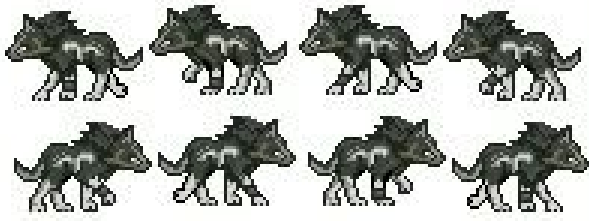
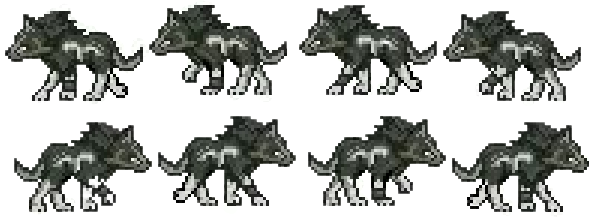
ADD move wolf without collision

diff --git a/tests/ennemy/test_ennemy_main.c b/tests/ennemy/test_ennemy_main.c
@@ -11,29 +11,36 @@
 
 void init_sprite(game_t *game)
 {
-    game->sprite = malloc(sizeof(sprite_data_t));
-    game->sprite->texture =
+    game->ennemy = malloc(sizeof(ennemy_t));
+    game->ennemy->sprite = malloc(sizeof(ennemy_sprite_t));
+    game->ennemy->sprite->max_left = 580;
+    game->ennemy->sprite->clock = sfClock_create();
+    game->ennemy->sprite->sprite_data = malloc(sizeof(sprite_data_t));
+    game->ennemy->sprite->sprite_data->texture =
     sfTexture_createFromFile("assets/ennemy/wolf.png", NULL);
-    game->sprite->sprite = sfSprite_create();
-    game->sprite->pos = (sfVector2f){250, 250};
-    game->sprite->scale = (sfVector2f){1.5, 1.5};
-    game->sprite->rect = (sfIntRect){0, 0, 145, 120};
+    game->ennemy->sprite->sprite_data->sprite = sfSprite_create();
+    game->ennemy->sprite->sprite_data->pos = (sfVector2f){250, 250};
+    game->ennemy->sprite->sprite_data->scale = (sfVector2f){1.5, 1.5};
+    game->ennemy->sprite->sprite_data->rect = (sfIntRect){0, 0, 145, 115};
 }
 
 int initialize_var(game_t *game)
 {
     game->window = sfRenderWindow_create((sfVideoMode){1080, 1920, 32},
     "ennemy_test", sfResize | sfClose, NULL);
-    game->click[0] = 0;
-    game->click[1] = 0;
+    game->click[0] = 1;
+    game->click[1] = 1;
+    game->distance[0] = 1;
+    game->distance[1] = 1;
     init_sprite(game);
+    game->clock = sfClock_create();
     return (0);
 }
 
 void display(game_t *game)
 {
     
-    sfRenderWindow_drawSprite(game->window, game->sprite->sprite, NULL);
+    sfRenderWindow_drawSprite(game->window, game->ennemy->sprite->sprite_data->sprite, NULL);
     return;
 }
 
@@ -41,6 +48,8 @@ void manage_mouse_click(sfMouseButtonEvent mouseButton, game_t *game)
 {
     game->click[0] = mouseButton.x;
     game->click[1] = mouseButton.y;
+    game->distance[0] = (int)(game->ennemy->sprite->sprite_data->pos.x - game->click[0]);
+    game->distance[1] = (int)(game->ennemy->sprite->sprite_data->pos.y - game->click[1]);
 }
 
 
@@ -54,17 +63,49 @@ void analyse_event(sfEvent event, game_t *game)
     return;
 }
 
-sprite_data_t *move_ennemy(sprite_data_t *sprite, int click[2]) {
-    if (sprite->pos.x < click[0] - (click[0] / 60) * 1.5)
-        sprite->pos.x += click[0] / 60 ;
-    else if (sprite->pos.x > click[0] + (click[0] / 60) * 1.5)
-        sprite->pos.x -= click[0] / 60 ;
-    if (sprite->pos.y < click[1] - (click[1] / 80) * 1.5)
-        sprite->pos.y += click[1] / 80;
-    else if (sprite->pos.y > click[1] + (click[1] / 80) * 1.5)
-        sprite->pos.y -= click[1] / 80;
-    sfSprite_setPosition(sprite->sprite, sprite->pos);
-    return (sprite);
+ennemy_t *move_texture(ennemy_t *ennemy, int left, int height, sfClock *clock)
+{
+    int time = sfClock_getElapsedTime(clock).microseconds;
+
+    
+    if (time > 100000) {
+        ennemy->sprite->sprite_data->rect.top = height;
+        if (ennemy->sprite->max_left >= ennemy->sprite->sprite_data->rect.left + left) {
+            ennemy->sprite->sprite_data->rect.left += left;
+        } else {
+            ennemy->sprite->sprite_data->rect.left = 0;
+        }
+        sfSprite_setTextureRect(ennemy->sprite->sprite_data->sprite,
+        ennemy->sprite->sprite_data->rect);
+        sfClock_restart(clock);
+    }
+    return (ennemy);
+}
+
+ennemy_t *move_ennemy(sfClock *clock, ennemy_t *ennemy, int click[2], int distance[2])
+{
+    int time = sfClock_getElapsedTime(clock).microseconds;
+    
+    if ((float)((float)time / (float)100 >= 1)) {
+        if (ennemy->sprite->sprite_data->pos.x < click[0]
+        || ennemy->sprite->sprite_data->pos.x > click[0]) {
+            printf("%f\n", ((float)distance[0] / (float)(abs(distance[1]) + (float)abs(distance[0]))));
+            ennemy->sprite->sprite_data->pos.x -= (float)distance[0] / (float)(abs(distance[1]) + (float)abs(distance[0]));
+            if (distance[0] > 0)
+                ennemy = move_texture(ennemy, 148, 0, ennemy->sprite->clock);
+            else
+                ennemy = move_texture(ennemy, 148, 115, ennemy->sprite->clock);
+        }
+        if (ennemy->sprite->sprite_data->pos.y < click[1]
+        || ennemy->sprite->sprite_data->pos.y > click[1]) {
+            ennemy->sprite->sprite_data->pos.y -= (float)distance[1] / (float)(abs(distance[1]) + (float)abs(distance[0]));
+            printf("%f\n", ((float)distance[0] / (float)(abs(distance[1]) + (float)abs(distance[0]))));
+        }
+        sfSprite_setPosition(ennemy->sprite->sprite_data->sprite, ennemy->sprite->sprite_data->pos);
+        sfClock_restart(clock);
+        my_printf("test");
+    }
+    return (ennemy);
 }
 
 int main(void)
@@ -74,18 +115,21 @@ int main(void)
 
     if (initialize_var(game) == 84)
         return (84);
-    sfSprite_setPosition(game->sprite->sprite, game->sprite->pos);
-    sfSprite_setTexture(game->sprite->sprite, game->sprite->texture, sfTrue);
-    sfSprite_setTextureRect(game->sprite->sprite, game->sprite->rect);
-    sfSprite_scale(game->sprite->sprite, game->sprite->scale);
+    sfSprite_setPosition(game->ennemy->sprite->sprite_data->sprite,
+    game->ennemy->sprite->sprite_data->pos);
+    sfSprite_setTexture(game->ennemy->sprite->sprite_data->sprite,
+    game->ennemy->sprite->sprite_data->texture, sfTrue);
+    sfSprite_setTextureRect(game->ennemy->sprite->sprite_data->sprite,
+    game->ennemy->sprite->sprite_data->rect);
+    sfSprite_scale(game->ennemy->sprite->sprite_data->sprite,
+    game->ennemy->sprite->sprite_data->scale);
     sfRenderWindow_setFramerateLimit(game->window, 60);
     while (sfRenderWindow_isOpen(game->window)) {
         display(game);
         sfRenderWindow_display(game->window);
-        game->sprite = move_ennemy(game->sprite, game->click);
+        game->ennemy = move_ennemy(game->clock, game->ennemy, game->click, game->distance);
         while (sfRenderWindow_pollEvent(game->window, &event))
             analyse_event(event, game);
         sfRenderWindow_clear(game->window, sfBlack);
-        my_printf("x = %i, y = %i\n", game->click[0], game->click[1]);
     }
 }

diff --git a/include/struct_var.h b/include/struct_var.h
@@ -34,6 +34,8 @@ typedef struct clock_data_s clock_data_t;
 typedef struct ennemy_s ennemy_t;
 typedef struct npc_s npc_t;
 typedef struct dialogues_s dialogues_t;
+typedef struct ennemy_sprite_s ennemy_sprite_t; 
+typedef struct stat_s stat_t;
 
 /************************** struct ***********************************/
 
@@ -54,15 +56,21 @@ struct npc_s {
     int index;
 };
 
-struct ennemy_s {
-    enum types_ennemy type_ennemy;
-    char *name;
-    int id;
+struct stat_s {
     int health;
     int armor;
     int power;
     int speed;
+};
+
+struct ennemy_s {
+    enum types_ennemy type_ennemy;
+    char *name;
+    int id;
+    stat_t *stat;
     sprite_data_t *sprite_data;
+    int max_left;
+    sfClock *clock;
 };
 
 struct armor_s {
@@ -102,7 +110,9 @@ struct clock_data_s {
 typedef struct game {
     int click[2];
     sfRenderWindow *window;
-    sprite_data_t *sprite;
+    ennemy_t *ennemy;
+    int distance[2];
+    sfClock *clock;
 }game_t;
 
 /************************** functions ***********************************/
